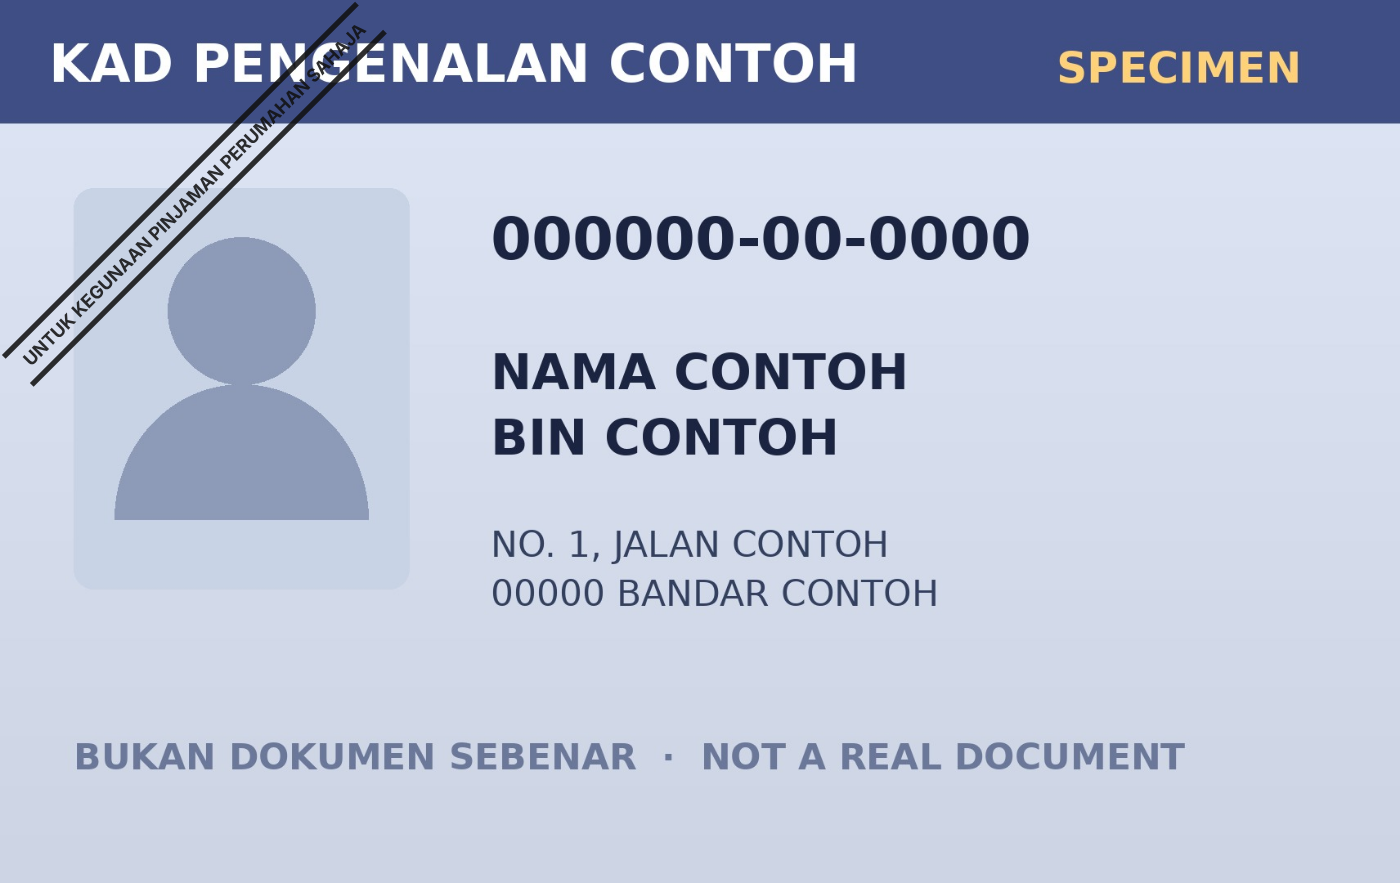
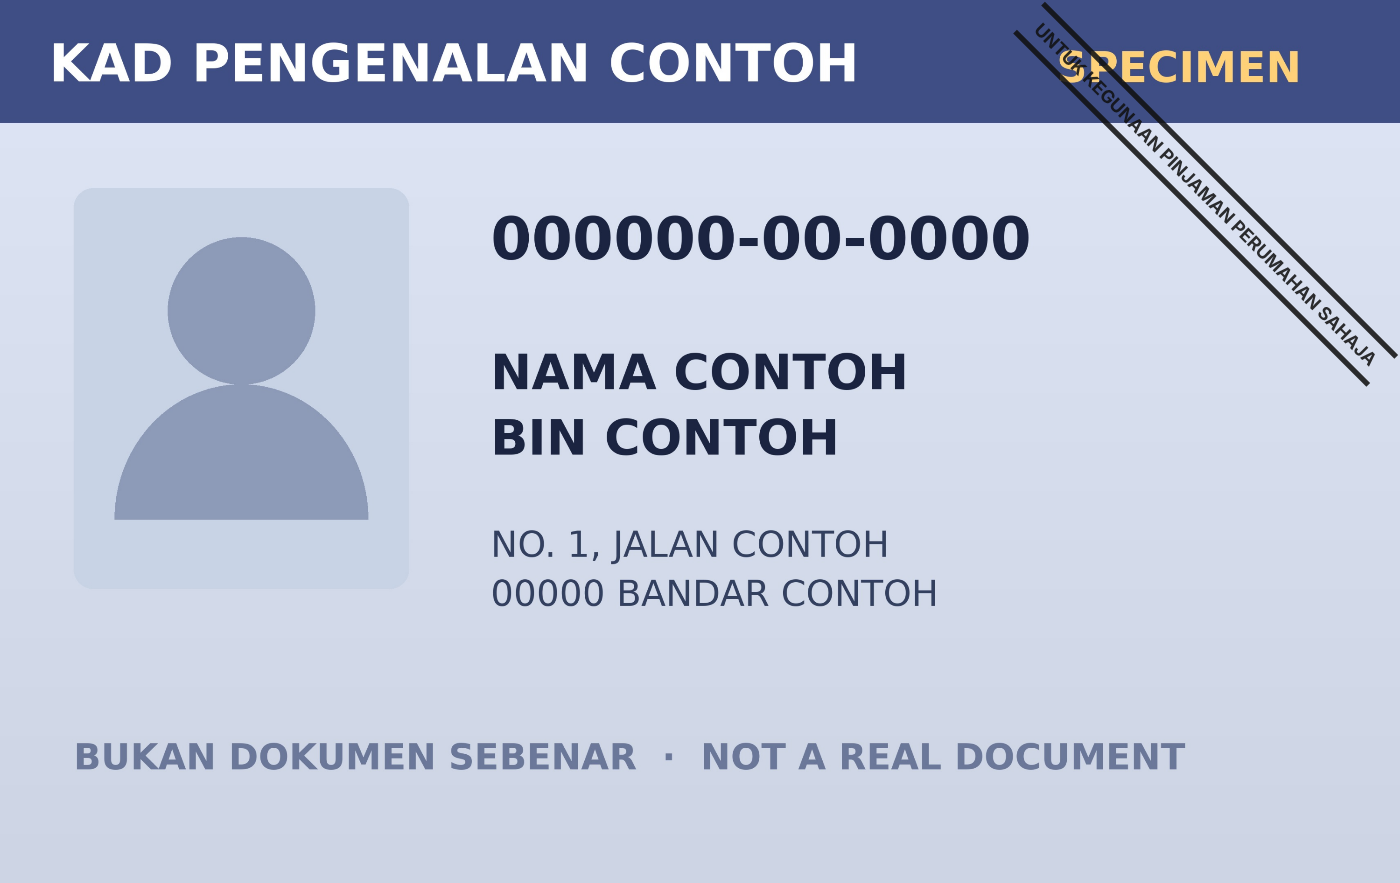
v4: use the Malaysian-standard top-right corner stamp
Recaptured stamp frames with corner=tr; vector replica of the same stamp
for the sharp close-up; label 'Cop sudut (paling biasa)'.

Claude-Session: https://claude.ai/code/session_01HK1cpNmYbpAWe2K44JwzQv

diff --git a/ad4/index.html b/ad4/index.html
@@ -75,7 +75,7 @@ html,body { margin:0; width:1080px; height:1920px; overflow:hidden; background:#
     <div class="clone" id="cl3" style="visibility:hidden"><img src="assets/ic-contoh.jpg"><div class="warn">!</div></div>
     <div id="cstage"><div id="ic" class="ic" style="left:100px;top:760px">
       <div class="side" style="transform:translateZ(-8px)"></div><div class="side" style="transform:translateZ(-16px)"></div><div class="side" style="transform:translateZ(-24px)"></div>
-      <div class="face"><img src="assets/ic-contoh.jpg"><img id="stamped" src="assets/par-18.png" style="visibility:hidden"></div>
+      <div class="face"><img src="assets/ic-contoh.jpg"><img id="stamped" src="assets/tr/par-18.png" style="visibility:hidden"></div>
       <div id="shine" class="shine"></div>
     </div></div>
     <div id="streak" style="visibility:hidden"></div>
@@ -102,7 +102,7 @@ html,body { margin:0; width:1080px; height:1920px; overflow:hidden; background:#
         <div class="sbar"><span>9:41</span><span style="letter-spacing:4px">●●● ▮</span></div><div class="island"></div></div>
       <div id="glass" class="glass"></div>
     </div></div>
-    <div id="outcard" class="pv" style="visibility:hidden;left:100px;top:700px;width:880px;height:555px"><img src="assets/par-18.png"></div>
+    <div id="outcard" class="pv" style="visibility:hidden;left:100px;top:700px;width:880px;height:555px"><img src="assets/tr/par-18.png"></div>
     <div id="sentchip" style="position:absolute;left:0;width:1080px;top:1360px;text-align:center;visibility:hidden">
       <span style="display:inline-flex;align-items:center;gap:20px;background:#fff;color:#0f172a;border-radius:999px;padding:26px 50px;font-weight:750;font-size:56px;letter-spacing:-0.02em;box-shadow:0 30px 60px -20px rgba(8,5,40,.6)">
       <svg width="60" height="60" viewBox="0 0 24 24"><circle cx="12" cy="12" r="11" fill="#10b981"/><path d="m7 12.5 3.2 3.2L17 9" fill="none" stroke="#fff" stroke-width="2.4" stroke-linecap="round" stroke-linejoin="round"/></svg>Sedia untuk dihantar</span></div>
@@ -117,13 +117,17 @@ html,body { margin:0; width:1080px; height:1920px; overflow:hidden; background:#
         <div class="lab">Untuk siapa / tujuan</div>
         <div class="box"><div id="typed">PINJAMAN PERUMAHAN</div><div id="caret"></div></div>
         <div class="plab">Pratonton</div>
-        <div class="pv"><img src="assets/par-00.png">
-          <img style="visibility:hidden" id="st1" src="assets/par-01.png"><img style="visibility:hidden" id="st2" src="assets/par-02.png"><img style="visibility:hidden" id="st3" src="assets/par-03.png">
-          <img style="visibility:hidden" id="st4" src="assets/par-04.png"><img style="visibility:hidden" id="st5" src="assets/par-05.png"><img style="visibility:hidden" id="st6" src="assets/par-06.png">
-          <img style="visibility:hidden" id="st7" src="assets/par-07.png"><img style="visibility:hidden" id="st8" src="assets/par-08.png"><img style="visibility:hidden" id="st9" src="assets/par-09.png">
-          <img style="visibility:hidden" id="st10" src="assets/par-10.png"><img style="visibility:hidden" id="st11" src="assets/par-11.png"><img style="visibility:hidden" id="st12" src="assets/par-12.png">
-          <img style="visibility:hidden" id="st13" src="assets/par-13.png"><img style="visibility:hidden" id="st14" src="assets/par-14.png"><img style="visibility:hidden" id="st15" src="assets/par-15.png">
-          <img style="visibility:hidden" id="st16" src="assets/par-16.png"><img style="visibility:hidden" id="st17" src="assets/par-17.png"><img style="visibility:hidden" id="st18" src="assets/par-18.png">
+        <div class="pv"><img src="assets/tr/par-00.png">
+          <img style="visibility:hidden" id="st1" src="assets/tr/par-01.png"><img style="visibility:hidden" id="st2" src="assets/tr/par-02.png"><img style="visibility:hidden" id="st3" src="assets/tr/par-03.png">
+          <img style="visibility:hidden" id="st4" src="assets/tr/par-04.png"><img style="visibility:hidden" id="st5" src="assets/tr/par-05.png"><img style="visibility:hidden" id="st6" src="assets/tr/par-06.png">
+          <img style="visibility:hidden" id="st7" src="assets/tr/par-07.png"><img style="visibility:hidden" id="st8" src="assets/tr/par-08.png"><img style="visibility:hidden" id="st9" src="assets/tr/par-09.png">
+          <img style="visibility:hidden" id="st10" src="assets/tr/par-10.png"><img style="visibility:hidden" id="st11" src="assets/tr/par-11.png"><img style="visibility:hidden" id="st12" src="assets/tr/par-12.png">
+          <img style="visibility:hidden" id="st13" src="assets/tr/par-13.png"><img style="visibility:hidden" id="st14" src="assets/tr/par-14.png"><img style="visibility:hidden" id="st15" src="assets/tr/par-15.png">
+          <img style="visibility:hidden" id="st16" src="assets/tr/par-16.png"><img style="visibility:hidden" id="st17" src="assets/tr/par-17.png"><img style="visibility:hidden" id="st18" src="assets/tr/par-18.png">
+<img id="cleanic" src="assets/ic-contoh-2x.jpg" style="visibility:hidden">
+          <svg id="vstamp" viewBox="0 0 1400 883" style="position:absolute;inset:0;width:100%;height:100%;visibility:hidden">
+          <line x1="1041" y1="0" x2="1400" y2="359" stroke="#202024" stroke-width="5.5"/><line x1="1012" y1="27" x2="1368" y2="383" stroke="#202024" stroke-width="5.5"/>
+          <text transform="translate(1032 19) rotate(45)" y="7.5" font-family="Inter, Arial, sans-serif" font-size="20" font-weight="700" fill="#202024" textLength="486" lengthAdjust="spacingAndGlyphs">UNTUK KEGUNAAN PINJAMAN PERUMAHAN SAHAJA</text></svg>
         </div>
       </div>
     </div>
@@ -133,7 +137,7 @@ html,body { margin:0; width:1080px; height:1920px; overflow:hidden; background:#
   <section id="sE" class="scene" style="visibility:hidden">
     <div id="f1" class="line" style="top:150px;font-size:110px;line-height:124px">Pilih gaya palang.</div>
     <div id="k1" class="scard" style="left:250px;top:360px;width:580px;height:366px"><img src="assets/shape-corner.png"></div>
-    <div id="k1l" class="slab" style="top:736px;font-size:56px">Cop sudut</div>
+    <div id="k1l" class="slab" style="top:736px;font-size:56px">Cop sudut <span style="color:#34d399">(paling biasa)</span></div>
     <div id="k2" class="scard" style="left:250px;top:850px;width:580px;height:366px"><img src="assets/shape-parallel.png"></div>
     <div id="k2l" class="slab" style="top:1226px;font-size:56px">Merentas</div>
     <div id="k3" class="scard" style="left:250px;top:1340px;width:580px;height:366px"><img src="assets/shape-x.png"></div>
@@ -235,7 +239,8 @@ ks.forEach((k, i) => { if (k < 1) return; const nx = i + 1 < ks.length ? st[ks[i
 const tEnd = T0 + ev[ev.length - 1][0]; M.mark(tEnd, 'press', 'stamp complete');
 // roll the camera along the stamp so the purpose reads (stamp centre at card (549,261)*960/948 -> scene (616,1194))
 M.hide('#d1', tEnd + 20); M.hide('#d1s', tEnd + 20);
-M.camera('#uicam', [[tEnd + 20, { scale: 1, x: 0, y: 0, rotation: 0 }], [tEnd + 56, { scale: 2.3, x: -76, y: -234, rotation: 30 }, 'softInOut']], { origin: '616px 1194px' });
+M.show('#vstamp', tEnd + 18); M.show('#cleanic', tEnd + 18); M.hide('#st18', tEnd + 18);
+M.camera('#uicam', [[tEnd + 20, { scale: 1, x: 0, y: 0, rotation: 0 }], [tEnd + 60, { scale: 3.1, x: -346, y: -104, rotation: -45 }, 'softInOut']], { origin: '886px 1064px' });
 const E0 = bar(13.4);
 M.camera(M.wrap('#uicam'), [[E0 - 22, { scale: 1 }], [E0, { scale: .55 }, 'gentleIn']], { origin: '540px 960px' });
 
